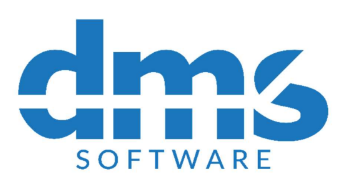
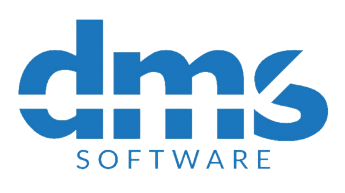
fix with img dms

diff --git a/src/app/components/log-in/log-in.component.html b/src/app/components/log-in/log-in.component.html
@@ -1,8 +1,8 @@
 <mat-toolbar color="primary" class="app-header">
-  <div><img src="assets/dms.png" style="width: 80px;"></div>
+  <div><img src="assets/dms.png" style="width: 80px; filter: brightness(0) invert(1);"></div>
   <span class="nav-tool-items">
     <a mat-button routerLink="/login" routerLinkActive="active">Iniciar Sesión</a>
-    <a mat-button mat-raised-button routerLink="/register" routerLinkActive="active">Registrarse</a>
+    <a mat-button routerLink="/register" routerLinkActive="active">Registrarse</a>
   </span>
 </mat-toolbar>
 

diff --git a/src/app/components/register/register.component.html b/src/app/components/register/register.component.html
@@ -1,8 +1,8 @@
 <mat-toolbar color="primary" class="app-header">
-  <div><img src="assets/dms.png" style="width: 80px;"></div>
+  <div><img src="assets/dms.png" style="width: 80px; filter: brightness(0) invert(1);"></div>
   <span class="nav-tool-items">
     <a mat-button routerLink="/login" routerLinkActive="active">Iniciar Sesión</a>
-    <a mat-button mat-raised-button routerLink="/register" routerLinkActive="active">Registrarse</a>
+    <a mat-button routerLink="/register" routerLinkActive="active">Registrarse</a>
   </span>
 </mat-toolbar>
 

diff --git a/src/app/components/admin/toolbar/toolbar.component.html b/src/app/components/admin/toolbar/toolbar.component.html
@@ -1,5 +1,5 @@
 <mat-toolbar color="primary" class="app-header">
-  <div><img src="assets/dms.png" style="width: 80px;"></div>
+  <div><img src="assets/dms.png" style="width: 80px; filter: brightness(0) invert(1);"></div>
   <span class="nav-tool-items">
     <a mat-button routerLink="/clients" routerLinkActive="active">Clientes</a>
     <a mat-button routerLink="/products" routerLinkActive="active">Productos</a>
